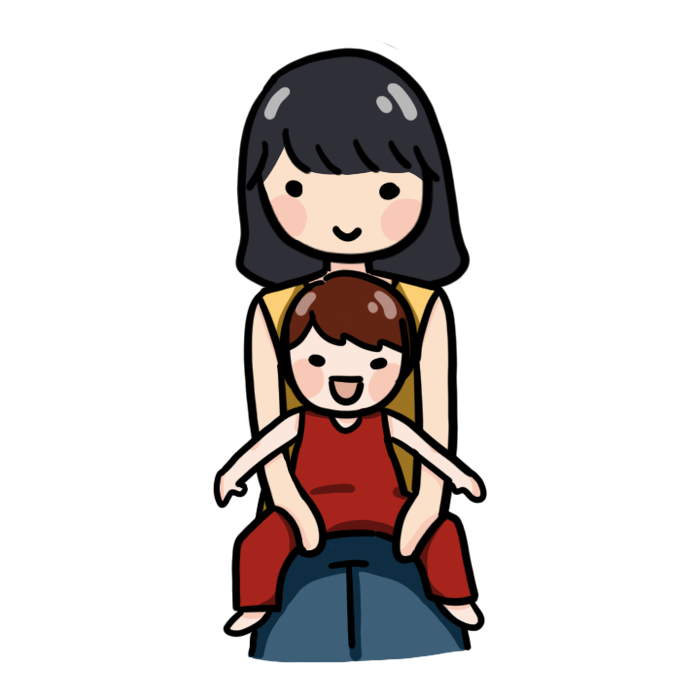
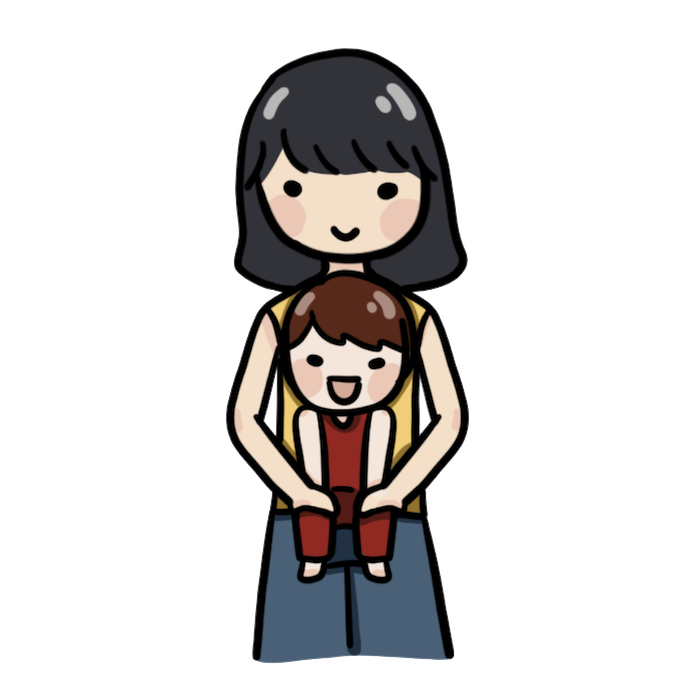
content update

diff --git a/utils/th.ts b/utils/th.ts
@@ -10,7 +10,7 @@ const th = {
   'page_title_cpinfo_medical_treatments': `การรักษา`,
   'page_title_cpinfo_body_equipment': `กายอุปกรณ์`,
   'page_title_sitting_position': `ท่านั่งที่ถูกต้อง`,
-  'page_title_wrong_sitting_position': `ท่านั่งที่ผิดปกติ`,
+  'page_title_wrong_sitting_position': `การนั่งที่ไม่เหมาะสม`,
   'page_title_streching': `การยืด`,
   'page_title_exercise': `การออกกำลังกาย`,
 
@@ -27,6 +27,17 @@ const th = {
     `การคลอดก่อนกำหนด หรือ การคลอดหลังกำหนด`,
     `เลือดออกในสมอง`,
     `สมองมีการติดเชื้อหรือการอักเสบ`,
+  ],
+
+  // CPINNFO > SYMPTOMS
+  'cpinfo_symptoms_title' : `อาการอื่นๆที่อาจพบร่วมด้วย`,
+  'cpinfo_symptoms_items' : [
+    `ความผิดปกติด้านจิตใจ`,
+    `ความผิดปกติด้านการเรียนรู้`,
+    `ภาวะชัก`,
+    `การบกพร่องทางการมองเห็นและการได้ยิน`,
+    `การขาดสารอาหารและภาวะต่าง ๆ เช่น โรคกรดไหลย้อน โรคอ้วน และภาวะโภชนาการต่ำ`,
+    `ภาวะโพรงสมองคั่งน้ำ`,
   ],
 
   // CPINFO > ANOMALIES
@@ -52,15 +63,7 @@ const th = {
   'cpinfo_diagnostics1_title' : `1. การวินิจฉัยจากประวัติ`,
   'cpinfo_diagnostics1_body' : `เด็กสมองพิการจะมีพัฒนาการที่ล่าช้า ซึ่งสามารถรู้สาเหตุได้จากประวัติก่อนตั้งครรภ์ ขณะตั้งครรภ์และประวัติขณะคลอด การตรวจประเมินพัฒนาการทางด้านการเคลื่อนไหวที่เหมาะสมตามช่วงอายุ (Motor development milestone) และการตรวจปฏิกิริยารีเฟล็กซ์จะสามารถใช้สำหรับวินิจฉัยเด็กที่มีพัฒนาการล่าช้าในเบื้องต้นได้`,
 
-  'cpinfo_diagnostics2_title' : `2. อาการอื่นๆที่อาจพบร่วมด้วย`,
-  'cpinfo_diagnostics2_item_1' : `ความผิดปกติด้านจิตใจ`,
-  'cpinfo_diagnostics2_item_2' : `ความผิดปกติด้านการเรียนรู้`,
-  'cpinfo_diagnostics2_item_3' : `ภาวะชัก`,
-  'cpinfo_diagnostics2_item_4' : `การบกพร่องทางการมองเห็นและการได้ยิน`,
-  'cpinfo_diagnostics2_item_5' : `การขาดสารอาหารและภาวะต่าง ๆ เช่น โรคกรดไหลย้อน โรคอ้วน และภาวะโภชนาการต่ำ`,
-  'cpinfo_diagnostics2_item_6' : `ภาวะโพรงสมองคั่งน้ำ`,
-
-  'cpinfo_diagnostics3_title' : `3. การวินิจฉัยทางการแพทย์ (Investigation)`,
+  'cpinfo_diagnostics3_title' : `2. การวินิจฉัยทางการแพทย์ (Investigation)`,
   'cpinfo_diagnostics3_subtitle' : `การตรวจเพื่อประเมินความผิดปกติของสมอง และใช้ระบุว่าเด็กมีภาวะสมองพิการ`,
   'cpinfo_diagnostics3_items' : [
     {
@@ -181,7 +184,8 @@ const th = {
   // 'sitting_position_importance_body' : `เด็กจะเริ่มนั่งได้ตั้งแต่อายุ 3-12 เดือน ท่านั่งจะมีหลายรูปแบบขึ้นอยู่กับวัตถุประสงค์ของการประกอบกิจวัตรประจำวัน โดยท่านั่งจะมี ดังนี้`,
   'sitting_position_importance_content' : [
     {
-      sectionContent: `โดยปกติลำดับพัฒนาการของเด็กจะเริ่มนั่งได้ในช่วงอายุ 6-12 เดือน ซึ่งการนั่งในเด็กนั้นมีความสำคัญกับเด็กเป็นอย่างมาก ทำให้เด็กสามารถช่วยเหลือตนเองได้ในขณะนั่ง และทำให้เด็กมีพัฒนาการของร่ายกายที่สามารถเกาะยืน ยืน และ เดิน ต่อไปได้ โดยในแอพพลิเคชั่นนี่จะเน้นในเรื่องของการออกกำลังกายในท่านั่งที่หลากหลาย ขึ้นอยู่กับความต้องการและความเหมาะสมของสิ่งแวดล้อมและของผู้ดูแลของเด็กในการฝึกขณะนั้น ซึ่งทุกท่าล้วนมีประโยชน์ต่อเด็กและมีความถูกต้องตามหลักการทางกายภาพบำบัด เพื่อให้เด็กมีคุณภาพชีวิตที่ดียิ่งขึ้น`
+      // sectionContent: `โดยปกติลำดับพัฒนาการของเด็กจะเริ่มนั่งได้ในช่วงอายุ 6-12 เดือน ซึ่งการนั่งในเด็กนั้นมีความสำคัญกับเด็กเป็นอย่างมาก ทำให้เด็กสามารถช่วยเหลือตนเองได้ในขณะนั่ง และทำให้เด็กมีพัฒนาการของร่ายกายที่สามารถเกาะยืน ยืน และ เดิน ต่อไปได้ โดยในแอพพลิเคชั่นนี่จะเน้นในเรื่องของการออกกำลังกายในท่านั่งที่หลากหลาย ขึ้นอยู่กับความต้องการและความเหมาะสมของสิ่งแวดล้อมและของผู้ดูแลของเด็กในการฝึกขณะนั้น ซึ่งทุกท่าล้วนมีประโยชน์ต่อเด็กและมีความถูกต้องตามหลักการทางกายภาพบำบัด เพื่อให้เด็กมีคุณภาพชีวิตที่ดียิ่งขึ้น`,
+      sectionContent: `เด็กจะเริ่มนั่งได้ในช่วงอายุ 6-12 เดือน ท่านั่งจะมีหลายรูปแบบขึ้นอยู่กับวัตถุประสงค์ของการประกอบกิจวัตรประจำวัน`,
     },
     {
       sectionTitle: `ประโยชน์ของการนั่ง`,
@@ -564,7 +568,7 @@ const th = {
             `ผู้ปกครองอุ้มเด็กขึ้น โดยจับที่เข่าของเด็กทั้ง 2 ข้างร่วมกับการกางขา`,
             `ขณะอุ้มให้ผู้ปกครองโน้มลำตัวไปข้างหน้าเพื่อป้องกันการเกร็งแอ่นไปด้านหลัง`,
           ],
-          hideInstructionNumbers: true,
+          // hideInstructionNumbers: true,
         },
       ],
     },
@@ -1007,14 +1011,17 @@ const th = {
           name: '3. ฝึกโดยใช้ลูกบอล',
         },
         {
-          // name: 'วิธีการฝึก',
-          steps: [
-            `จัดให้เด็กนั่งขัดสมาธิ เริ่มจากวางลูกบอลไว้ด้านหน้าเด็ก ให้เด็กใช้แขนทั้ง 2 ข้าง วางบนลูกบอล`,
-            `ผู้ปกครองประคองที่หลัง โดยออกแรงโน้มตัวเด็กไปด้านหน้า`,
-            `ผู้ปกครองบอกให้เด็กดึงตัวกลับมานั่งตรงหรือผู้ปกครองอาจจะออกแรงช่วยเล็กน้อยได้หากเด็กไม่สามารถดึงตัวกลับเองได้`,
-            `เปลี่ยนตำแหน่งลูกบอลวางไว้ด้านข้างลำตัวซ้ายหรือขวาแล้วให้เด็กเหยียดแขนวางบนลูกบอล`,
-            `ผู้ปกครองอยู่ด้านหลัง ประคองที่ไหล่ของเด็ก พร้อมออกแรงเอียงตัวเด็กไปด้านข้างที่จับลูกบอล และให้เด็กดึงตัวกลับมาในท่านั่งตรงหรือผู้ปกครองช่วยออกแรงดึงตัวกลับเล็กน้อยในกรณีที่เด็กไม่สามารถดึงตัวกลับมาเองได้ เพื่อเพิ่มความแข็งแรงของกล้ามเนื้อแกนกลางลำตัวด้านข้าง`,
-          ],
+          multiSteps: {
+            'กรณีโน้มตัวไปด้านหน้า': [
+              `จัดให้เด็กนั่งขัดสมาธิ เริ่มจากวางลูกบอลไว้ด้านหน้าเด็ก ให้เด็กใช้แขนทั้ง 2 ข้าง วางบนลูกบอล`,
+              `ผู้ปกครองประคองที่หลัง โดยออกแรงโน้มตัวเด็กไปด้านหน้า`,
+              `ผู้ปกครองบอกให้เด็กดึงตัวกลับมานั่งตรงหรือผู้ปกครองอาจจะออกแรงช่วยเล็กน้อยได้หากเด็กไม่สามารถดึงตัวกลับเองได้`,
+            ],
+            'กรณีโน้มตัวไปด้านซ้ายและขวา': [
+              `เปลี่ยนตำแหน่งลูกบอลวางไว้ด้านข้างลำตัวซ้ายหรือขวาแล้วให้เด็กเหยียดแขนวางบนลูกบอล`,
+              `ผู้ปกครองอยู่ด้านหลัง ประคองที่ไหล่ของเด็ก พร้อมออกแรงเอียงตัวเด็กไปด้านข้างที่จับลูกบอล และให้เด็กดึงตัวกลับมาในท่านั่งตรงหรือผู้ปกครองช่วยออกแรงดึงตัวกลับเล็กน้อยในกรณีที่เด็กไม่สามารถดึงตัวกลับมาเองได้ เพื่อเพิ่มความแข็งแรงของกล้ามเนื้อแกนกลางลำตัวด้านข้าง`,
+            ],
+          },
           warnings: [
             `ผู้ปกครองควรจับเด็กให้มั่นคง เนื่องจากลูกบอลอาจจะลื่นทำให้เด็กล้มได้`,
           ],

diff --git a/views/Routine/index.tsx b/views/Routine/index.tsx
@@ -73,7 +73,10 @@ const RoutinePage: React.FC<Props> = (props) => {
           main: require('@app/assets/colored/ADL/bathing/37แม่อาบนั่งไม่ดี.png'),
         },
         {
-          main: require('@app/assets/colored/ADL/bathing/38แม่อาบนั่งได้.png'),
+          main: [
+            require('@app/assets/colored/ADL/bathing/อาบเองนั่งได้.png'),
+            require('@app/assets/colored/ADL/bathing/38แม่อาบนั่งได้.png'),
+          ],
         },
         {
           main: require('@app/assets/colored/ADL/bathing/39ตัวเกร็งอาบน้ำ.png'),
@@ -99,10 +102,15 @@ const RoutinePage: React.FC<Props> = (props) => {
       images: [
         // TODO: ADD IMAGES
         {
-          main: require('@app/assets/colored/ADL/Dressing/43นอนแต่ง(ขยับ).gif'),
+          orderedList: [
+            require('@app/assets/colored/ADL/Dressing/43นอนแต่ง(ขยับ)1.gif'),
+            require('@app/assets/colored/ADL/Dressing/43นอนแต่ง(ขยับ)2.gif'),
+            require('@app/assets/colored/ADL/Dressing/43นอนแต่ง(ขยับ)3.gif'),
+          ],
         },
         {
-          main: require('@app/assets/colored/ADL/Dressing/4Xนอนหงายใส่เสื้อคอกลม.png'),
+          // main: require('@app/assets/colored/ADL/Dressing/4Xนอนหงายใส่เสื้อคอกลม.png'),
+          main: require('@app/assets/colored/ADL/Dressing/4Xนอนหงายใส่เสื้อคอกลม.gif'),
         },
         {
           main: require('@app/assets/colored/ADL/Dressing/44นอนคว่ำแต่งตัว(ขยับ).gif'),
@@ -150,8 +158,8 @@ const RoutinePage: React.FC<Props> = (props) => {
       cautionImage: require('@app/assets/colored/ADL/carrying/55ท่าอุ้ม.png'),
       images: [
         {
-          main: require('@app/assets/colored/ADL/carrying/56แม่อุ้ม.png'),
-          orderedList: [
+          main: [
+            require('@app/assets/colored/ADL/carrying/56แม่อุ้ม.png'),
             require('@app/assets/colored/ADL/carrying/57เด็กบิน.png'),
           ],
           // main: require('@app/assets/colored/ADL/carrying/56-57-combined.png'),

diff --git a/views/Exercise/Info/index.tsx b/views/Exercise/Info/index.tsx
@@ -67,7 +67,8 @@ const ExerciseInfoPage: React.FC<Props> = (props) => {
           METHOD.name
           : undefined
         ),
-        sectionImageSource: '',
+        sectionImageSource: undefined,
+        sectionMultipleImageSource: undefined,
       }
       
       DATA.contentSections.push(TITLE_AND_IMGS);
@@ -78,11 +79,12 @@ const ExerciseInfoPage: React.FC<Props> = (props) => {
           TITLE_AND_IMGS.sectionImageSource = IMG;
         }
         else {
-          IMG.forEach((elm: any) => {
-            DATA.contentSections.push({
-              sectionImageSource: elm,
-            });
-          })
+          TITLE_AND_IMGS.sectionMultipleImageSource = IMG;
+          // IMG.forEach((elm: any) => {
+          //   DATA.contentSections.push({
+          //     sectionImageSource: elm,
+          //   });
+          // })
         }
       }
     }
@@ -105,6 +107,16 @@ const ExerciseInfoPage: React.FC<Props> = (props) => {
         ),
         sectionOrderedList: METHOD.steps,
       })
+    }
+
+    if (METHOD.multiSteps) {
+      for (let key in METHOD.multiSteps) {
+        // console.log(key)
+        DATA.contentSections.push({
+          sectionTitle: key,
+          sectionOrderedList: METHOD.multiSteps[key],
+        })
+      }
     }
 
     if (METHOD.notes) {
@@ -130,7 +142,7 @@ const ExerciseInfoPage: React.FC<Props> = (props) => {
 
 
     if (i !== RAW_DATA.methods.length - 1 
-      && (METHOD.description || METHOD.steps || METHOD.notes || METHOD.warning || METHOD.advice)) {
+      && (METHOD.description || METHOD.steps || METHOD.multiSteps || METHOD.notes || METHOD.warning || METHOD.advice)) {
       DATA.contentSections.push({
         isSeperatorSection: true,
       })

diff --git a/components/VKInfoCard.tsx b/components/VKInfoCard.tsx
@@ -24,6 +24,7 @@ interface VKSection {
   sectionOrderedListImages?: ImageSourcePropType[],
   hideNumber?: boolean,
   sectionImageSource?: ImageSourcePropType,
+  sectionMultipleImageSource?: ImageSourcePropType[],
   sectionNestedSection?: VKSection,
 
   isSeperatorSection?: boolean,
@@ -77,9 +78,12 @@ const VKInfoCard: React.FC<Props> = (props) => {
     else {
       const AVAILABLE_SPACE = Dimensions.get('window').width - (2*16) - (2*12)
       const IMG_WIDTH = AVAILABLE_SPACE * 0.9
-  
+      
       const ORDERED_LIST = s.sectionOrderedList ? s.sectionOrderedList : []
       const ORDERED_LIST_IMAGES = s.sectionOrderedListImages ? s.sectionOrderedListImages : []
+
+      const SMALL_IMG_WIDTH = AVAILABLE_SPACE * 0.5
+      const SMALL_IMG_MARGIN = -(AVAILABLE_SPACE * 0.05)
       
       return (
         <View style={SharedStyle.SubSection} key={i}>
@@ -119,6 +123,23 @@ const VKInfoCard: React.FC<Props> = (props) => {
                 width={IMG_WIDTH}
               />
                 // style={{ marginTop: '-5%', marginBottom: '5%' }}
+            )
+            : (<></>)
+          }
+
+          {
+            s.sectionMultipleImageSource ?
+            (
+              <View style={{ flexDirection: 'row', flexWrap: 'wrap', justifyContent: 'center' }}>
+              {
+                s.sectionMultipleImageSource.map(elm =>
+                  <Image source={elm} 
+                    style={{ marginHorizontal: SMALL_IMG_MARGIN }}
+                    width={SMALL_IMG_WIDTH}
+                  />
+                )
+              }
+              </View>
             )
             : (<></>)
           }

diff --git a/components/CPInfo/Symptoms.tsx b/components/CPInfo/Symptoms.tsx
@@ -19,7 +19,7 @@ interface Props {
   // navigation?: any,
 }
 
-const Diagnostics2: React.FC<Props> = (props) => {
+const Symptoms: React.FC<Props> = (props) => {
   // STATE
   // let [balance, setBalance] = React.useState<number>();
 
@@ -35,15 +35,8 @@ const Diagnostics2: React.FC<Props> = (props) => {
     return componentWillUnmount
   }, [])
 
-  const TITLE = i18n.t('cpinfo_diagnostics2_title')
-  const LIST_ITEMS = [
-    i18n.t('cpinfo_diagnostics2_item_1'),
-    i18n.t('cpinfo_diagnostics2_item_2'),
-    i18n.t('cpinfo_diagnostics2_item_3'),
-    i18n.t('cpinfo_diagnostics2_item_4'),
-    i18n.t('cpinfo_diagnostics2_item_5'),
-    i18n.t('cpinfo_diagnostics2_item_6'),
-  ]
+  const TITLE = i18n.t('cpinfo_symptoms_title')
+  const LIST_ITEMS = i18n.t('cpinfo_symptoms_items')
   return (
     <Card containerStyle={SharedStyle.InfoCard}>
       <Text style={SharedStyle.Title}>
@@ -65,4 +58,4 @@ const LocalStyle = StyleSheet.create({
   },
 });
 
-export default Diagnostics2
+export default Symptoms

diff --git a/views/CPInfo/Symptoms/index.tsx b/views/CPInfo/Symptoms/index.tsx
@@ -17,9 +17,9 @@ import i18n from 'i18n-js'
 import { SharedStyle } from '@app/components/styles'
 
 import VKHeader from '@app/components/VKHeader'
-import Diagnostics1 from '@app/components/CPInfo/Diagnostics1'
-// import Diagnostics2 from '@app/components/CPInfo/Diagnostics2'
-import Diagnostics3 from '@app/components/CPInfo/Diagnostics3'
+// import Diagnostics1 from '@app/components/CPInfo/Diagnostics1'
+import Symptoms from '@app/components/CPInfo/Symptoms'
+// import Diagnostics3 from '@app/components/CPInfo/Diagnostics3'
 import VKRootView from '@app/components/VKRootView'
 
 interface Props {
@@ -50,9 +50,9 @@ const DiagnosticsPage: React.FC<Props> = (props) => {
       />
       
       <ScrollView style={{ flex: 1 }} contentContainerStyle={{ paddingBottom: 16 }}>
-        <Diagnostics1/>
-        {/* <Diagnostics2/> */}
-        <Diagnostics3/>
+        {/* <Diagnostics1/> */}
+        <Symptoms/>
+        {/* <Diagnostics3/> */}
       </ScrollView>
 
     </VKRootView>

diff --git a/App.tsx b/App.tsx
@@ -11,6 +11,7 @@ import * as Font from 'expo-font'
 import MainPage from '@app/views/MainPage'
 import CPInfoPage from '@app/views/CPInfo'
 import CPCausesPage from '@app/views/CPInfo/Causes'
+import CPSymptomsPage from '@app/views/CPInfo/Symptoms'
 import CPCategoriesPage from '@app/views/CPInfo/Categories'
 import CPDiagnosticsPage from '@app/views/CPInfo/Diagnostics'
 import CPMedicalTreatmentsPage from '@app/views/CPInfo/MedicalTreatments'
@@ -44,6 +45,9 @@ const MainNavigator = createStackNavigator(
     },
     CPCauses: {
       screen: CPCausesPage,
+    },
+    CPSymptoms: {
+      screen: CPSymptomsPage,
     },
     CPCategories: {
       screen: CPCategoriesPage,

diff --git a/views/CPInfo/index.tsx b/views/CPInfo/index.tsx
@@ -63,6 +63,12 @@ const CPInfoPage: React.FC<Props> = (props) => {
       leftElement: <AntDesign name='exclamationcircle' size={20} color='#fff' />,
     },
     {
+      title: 'อาการอื่นๆ ที่อาจพบร่วมด้วย',
+      href: 'CPSymptoms',
+      backgroundColor: '#E16E5B',
+      leftElement: <AntDesign name='exclamationcircle' size={20} color='#fff' />,
+    },
+    {
       title: 'การแบ่งประเภท',
       href: 'CPCategories',
       backgroundColor: '#E16E5B',

diff --git a/views/Routine/Info/index.tsx b/views/Routine/Info/index.tsx
@@ -79,9 +79,15 @@ const RoutineInfoPage: React.FC<Props> = (props) => {
 
     // TOP IMAGE
     if (IMAGES[i] && IMAGES[i].main) {
-      ITEM.contentSections.push({
-        sectionImageSource: IMAGES[i].main,
-      })
+      if (IMAGES[i].main[0]) {
+        ITEM.contentSections.push({
+          sectionMultipleImageSource: IMAGES[i].main,
+        })
+      } else {
+        ITEM.contentSections.push({
+          sectionImageSource: IMAGES[i].main,
+        })
+      }
     }
 
     // ORDERED LIST

diff --git a/views/Exercise/index.tsx b/views/Exercise/index.tsx
@@ -86,7 +86,10 @@ const ExerciseTutorialPage: React.FC<Props> = (props) => {
       require('@app/assets/colored/Exercise/COM/29ขยับ.gif'),
     ],
     [
-      require('@app/assets/colored/Exercise/COM/30ขยับ.gif'),
+      [
+        require('@app/assets/colored/Exercise/COM/30ขยับ.gif'),
+        require('@app/assets/colored/Exercise/COM/30-31.gif'),
+      ],
     ],
     [
       require('@app/assets/colored/Exercise/COM/1ขยับ.gif'),

diff --git a/views/MainPage.tsx b/views/MainPage.tsx
@@ -65,7 +65,7 @@ const MainPage: React.FC<Props> = (props) => {
       backgroundColor: '#FDC055',
     },
     {
-      title: 'ท่านั่งที่ผิดปกติ',
+      title: 'การนั่งที่ไม่เหมาะสม',
       href: 'WrongSittingPosition',
       backgroundColor: '#EC8C50',
     },
